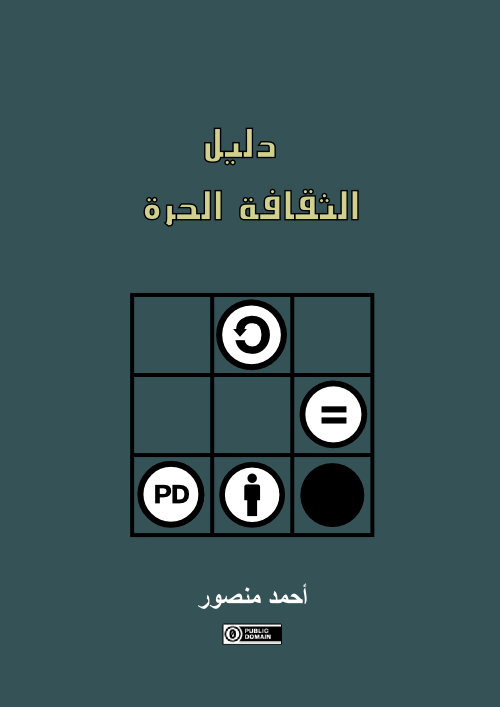
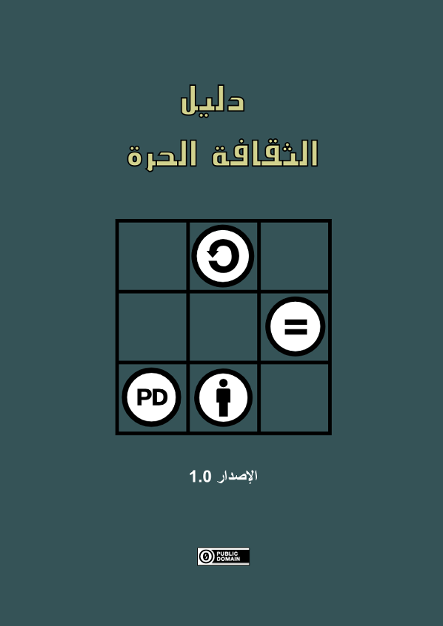
Update book description Add RTL to page post Removed useless menu headers

Changed region(s): [[0.2348, 0.1214, 0.763, 0.7891], [0.4108, 0.8195, 0.6163, 0.9105]]

diff --git a/_includes/themes/mark-reid/default.html b/_includes/themes/mark-reid/default.html
@@ -36,12 +36,11 @@
     	<span class="byline">&larr; <a href="{{ HOME_PATH }}">{{ site.author.name }}</a></span>
     </h1>
     <ul class="nav">
- 
+ <h4>
       <li><a  href="/author.html">عن المؤلف</a></li>
-      <li><a  href="/share.html">انشر الكتاب</a></li>
-      <li><a  href="/paper.html">نسخة ورقية</a></li>
       <li><a  href="/read.html">إقراه الآن</a></li>
      <li><a class="home" href="{{ HOME_PATH }}">عن الكتاب</a></li>
+</h4>
     </ul>
   </div>
 

diff --git a/_includes/themes/mark-reid/page.html b/_includes/themes/mark-reid/page.html
@@ -1,6 +1,7 @@
-<div id="page" style="text-align: right;">
+<div id="page" dir="rtl" >
 	
 <h1 class="emphnext">{{ page.title }}</h1>
+<p dir="RTL">
 {{ content }}
-
+</p>
 </div><!-- End Page -->

diff --git a/index.md b/index.md
@@ -1,9 +1,16 @@
 ---
 layout: page
 title: كتاب دليل الثقافة الحرة
-tagline: Supporting tagline
 ---
 {% include JB/setup %}
+
+## عن الكتاب ##
+
+حركة الثقافة الحرة هي حركة اجتماعية تشجع على الحرية والمرونة في توزيع وتعديل الأعمال الإبداعية.  انها على العكس من "ثقافة جميع الحقوق محفوظة" التي تعم حقوق الطبع والنشر الحالي وقانون الملكية الفكرية.
+
+يحاول هذا الكتاب تقريب القارئ من النقاش الدائر حول الملكية الفكرية و التحديات الامكانيات التي توفرها التكنلوجيا الحديثة، عبر التعريف بأهم المشاريع الناتجة عن هذه الحركة مثل البرمجيات
+
+إذا كنت تعتقد أن المعلومات يجب أن تكون حرة، يتطرق هذا الكتاب الى الطرق التي يمكن أن تدعم هذه الحركة ونشر ابداعاتك تحت رخصة حرة والانضمام إلى هذه الثورة الهادئة.
 
 ![]({{ root_url }}/assets/cover.png)
 
